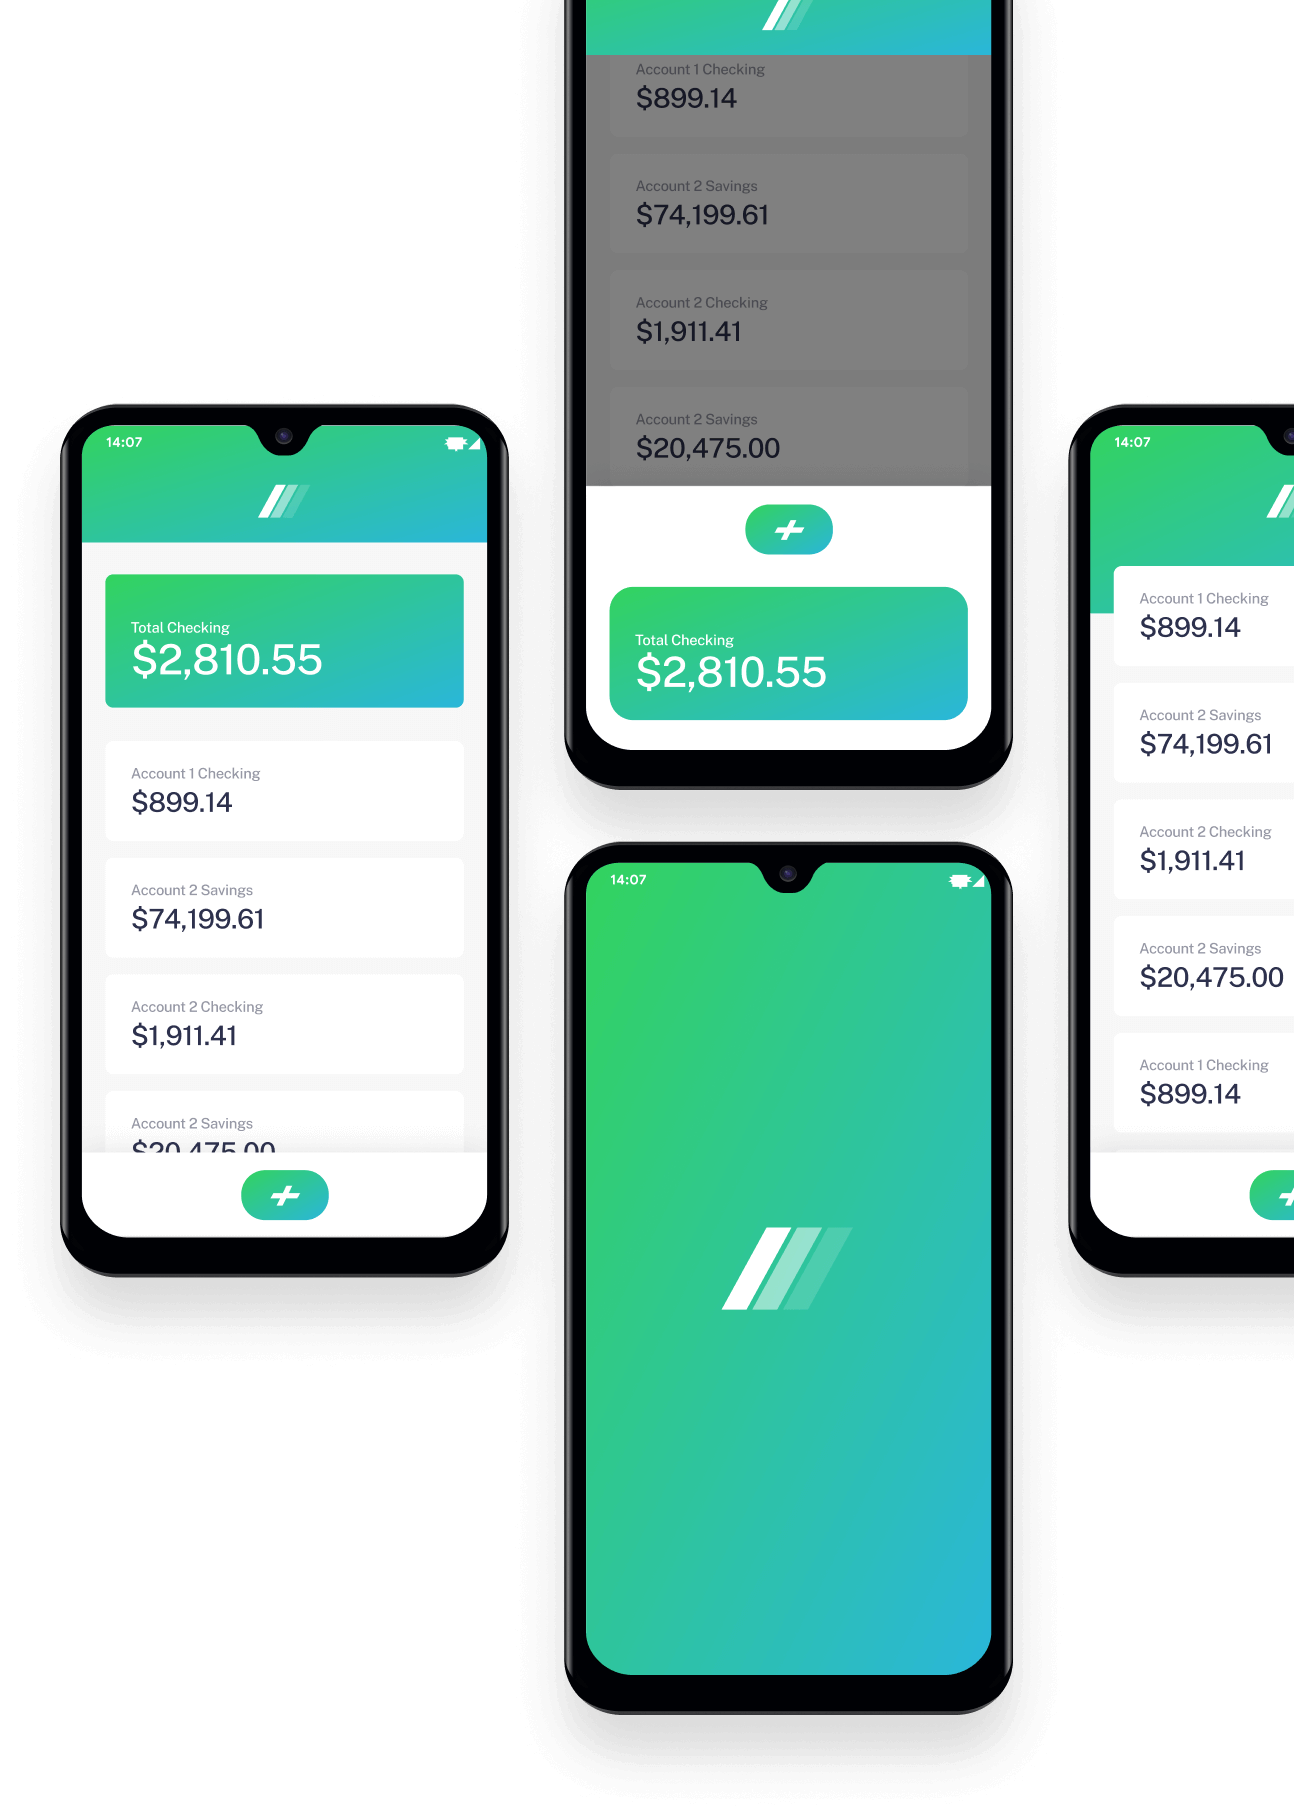
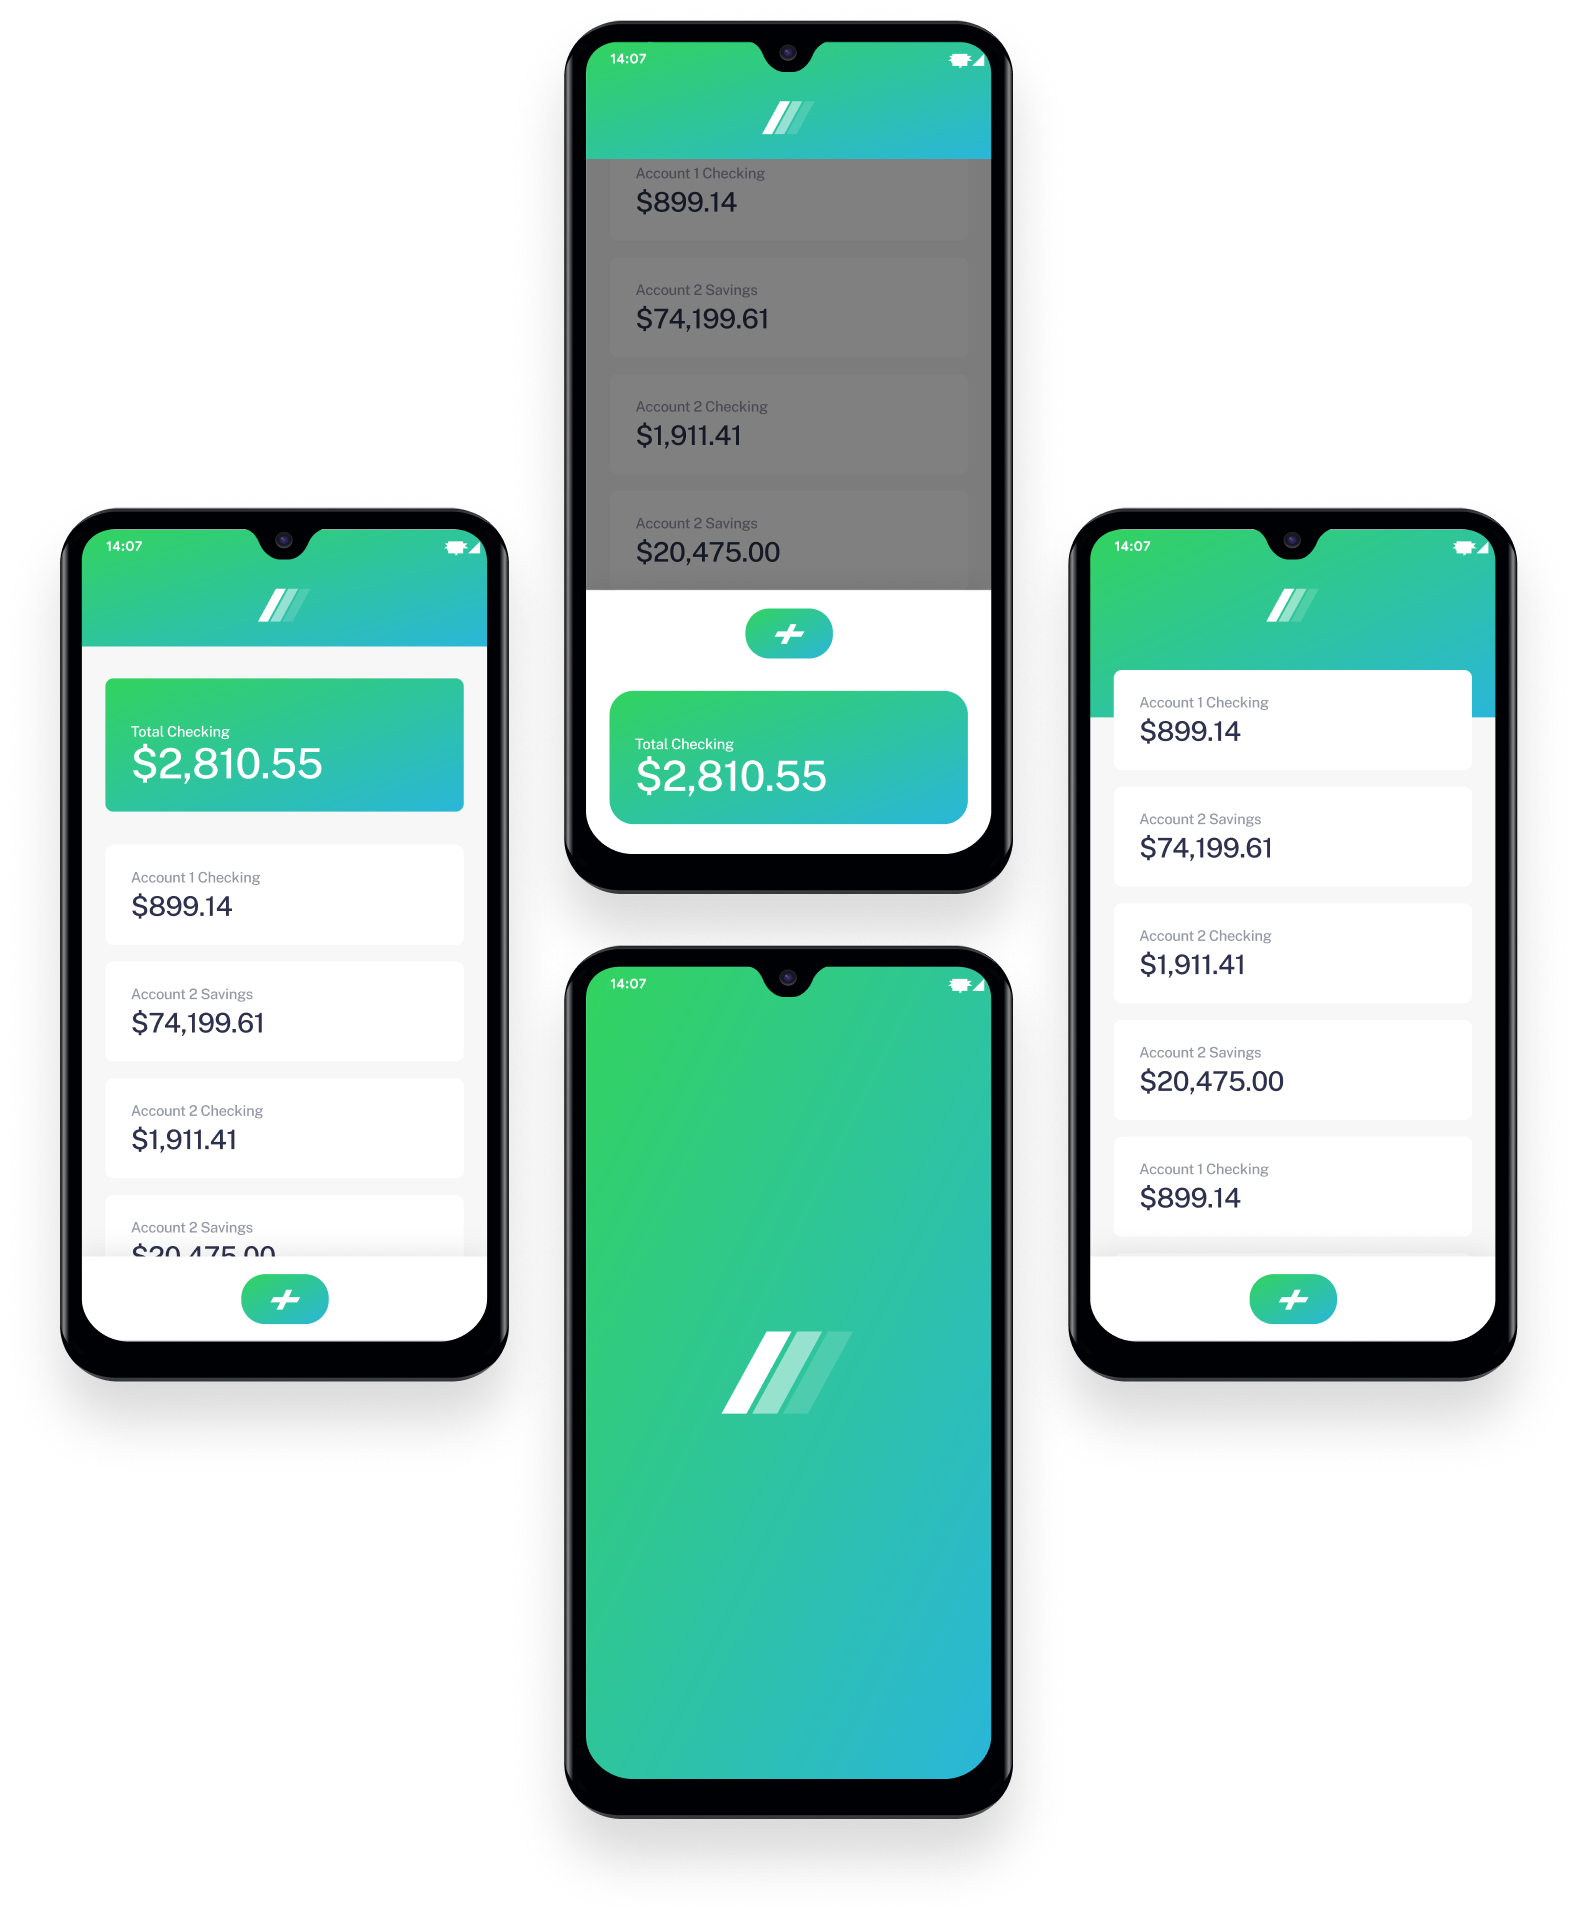
did bgi and hero img

diff --git a/css/style.css b/css/style.css
@@ -73,6 +73,7 @@ img {
   z-index: 50;
   top: 0;
   width: 100%;
+  background-color: #fff;
 }
 .header-container{
   display: flex;
@@ -123,16 +124,19 @@ img {
   border-radius: 22px;
   white-space: nowrap;
 }
+/* Hero section */
 .main-button{
   padding: 13px 34px;
 }
 .hero-section{
-  display: flex;
-  padding: 170px 0;
   background-image: url("../img/hero-bg.png");
   background-repeat: no-repeat;
-  background-size: contain;
-  background-position: right top;
+  background-size: auto ;
+  background-position:calc(100% / 2 + 500px) calc(100% / 2 - 50px);
+}
+.hero-container{
+  padding: 170px 0;
+
 }
 .hero-info{
  max-width: 447px;
@@ -154,7 +158,15 @@ img {
   letter-spacing: -0.28125px;
   color: #9597A5;
 }
-
+.hero-img{
+  position: absolute;
+  z-index: 1;
+  left: calc(50%);
+  bottom: -160px;
+  vertical-align: baseline;
+  width: 728px;
+  height: 900px;
+}
 
 
 

diff --git a/index.html b/index.html
@@ -27,14 +27,14 @@
 </header>
 <main class="site-main">
   <section class="hero-section">
-    <div class="container">
+    <div class="container hero-container">
       <div class="hero-info">
         <h2 class="hero-heading">Next generation digital banking</h2>
         <p class="hero-text">Take your financial life online. Your Easybank account will be a one-stop-shop for spending, saving, budgeting, investing, and much more.</p>
         <a class="button main-button" href="#">Request Invite</a>
       </div>
     </div>
-    <img src="img/phones.png" alt="phones" width="728" height="900">
+    <img class="hero-img" src="img/phones.png" alt="phones" width="728" height="900">
   </section>
 </main>
 </body>
